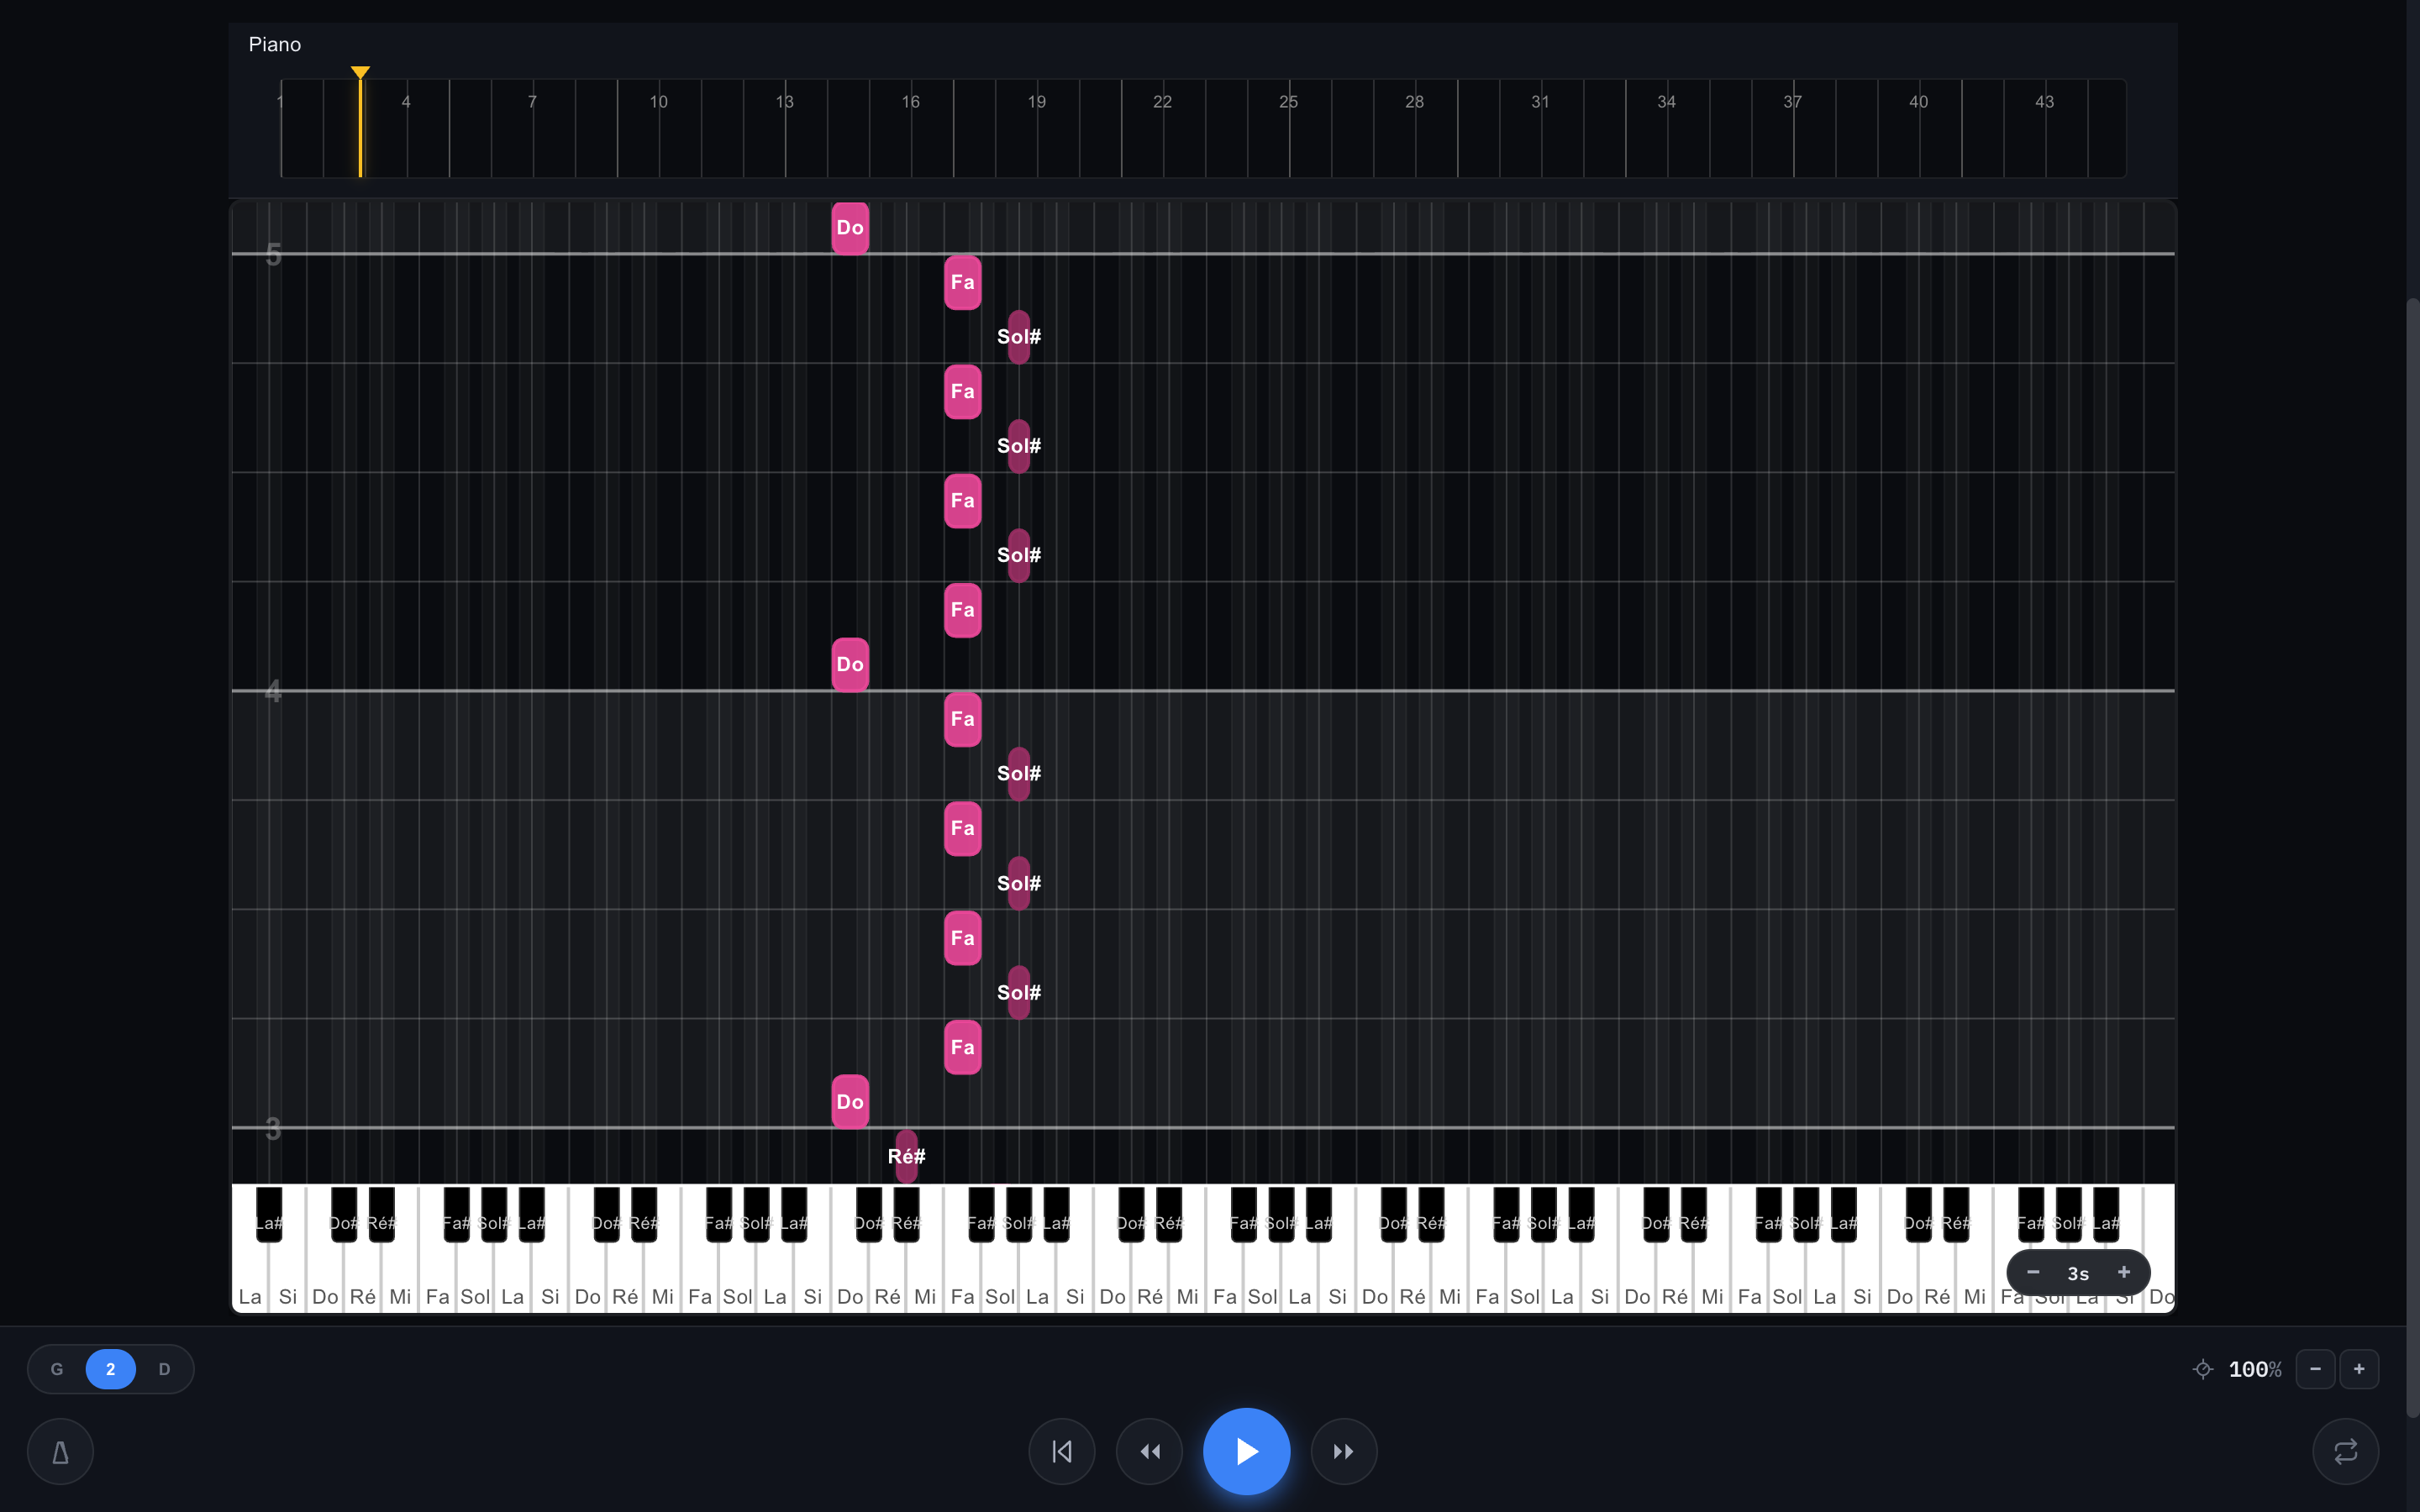
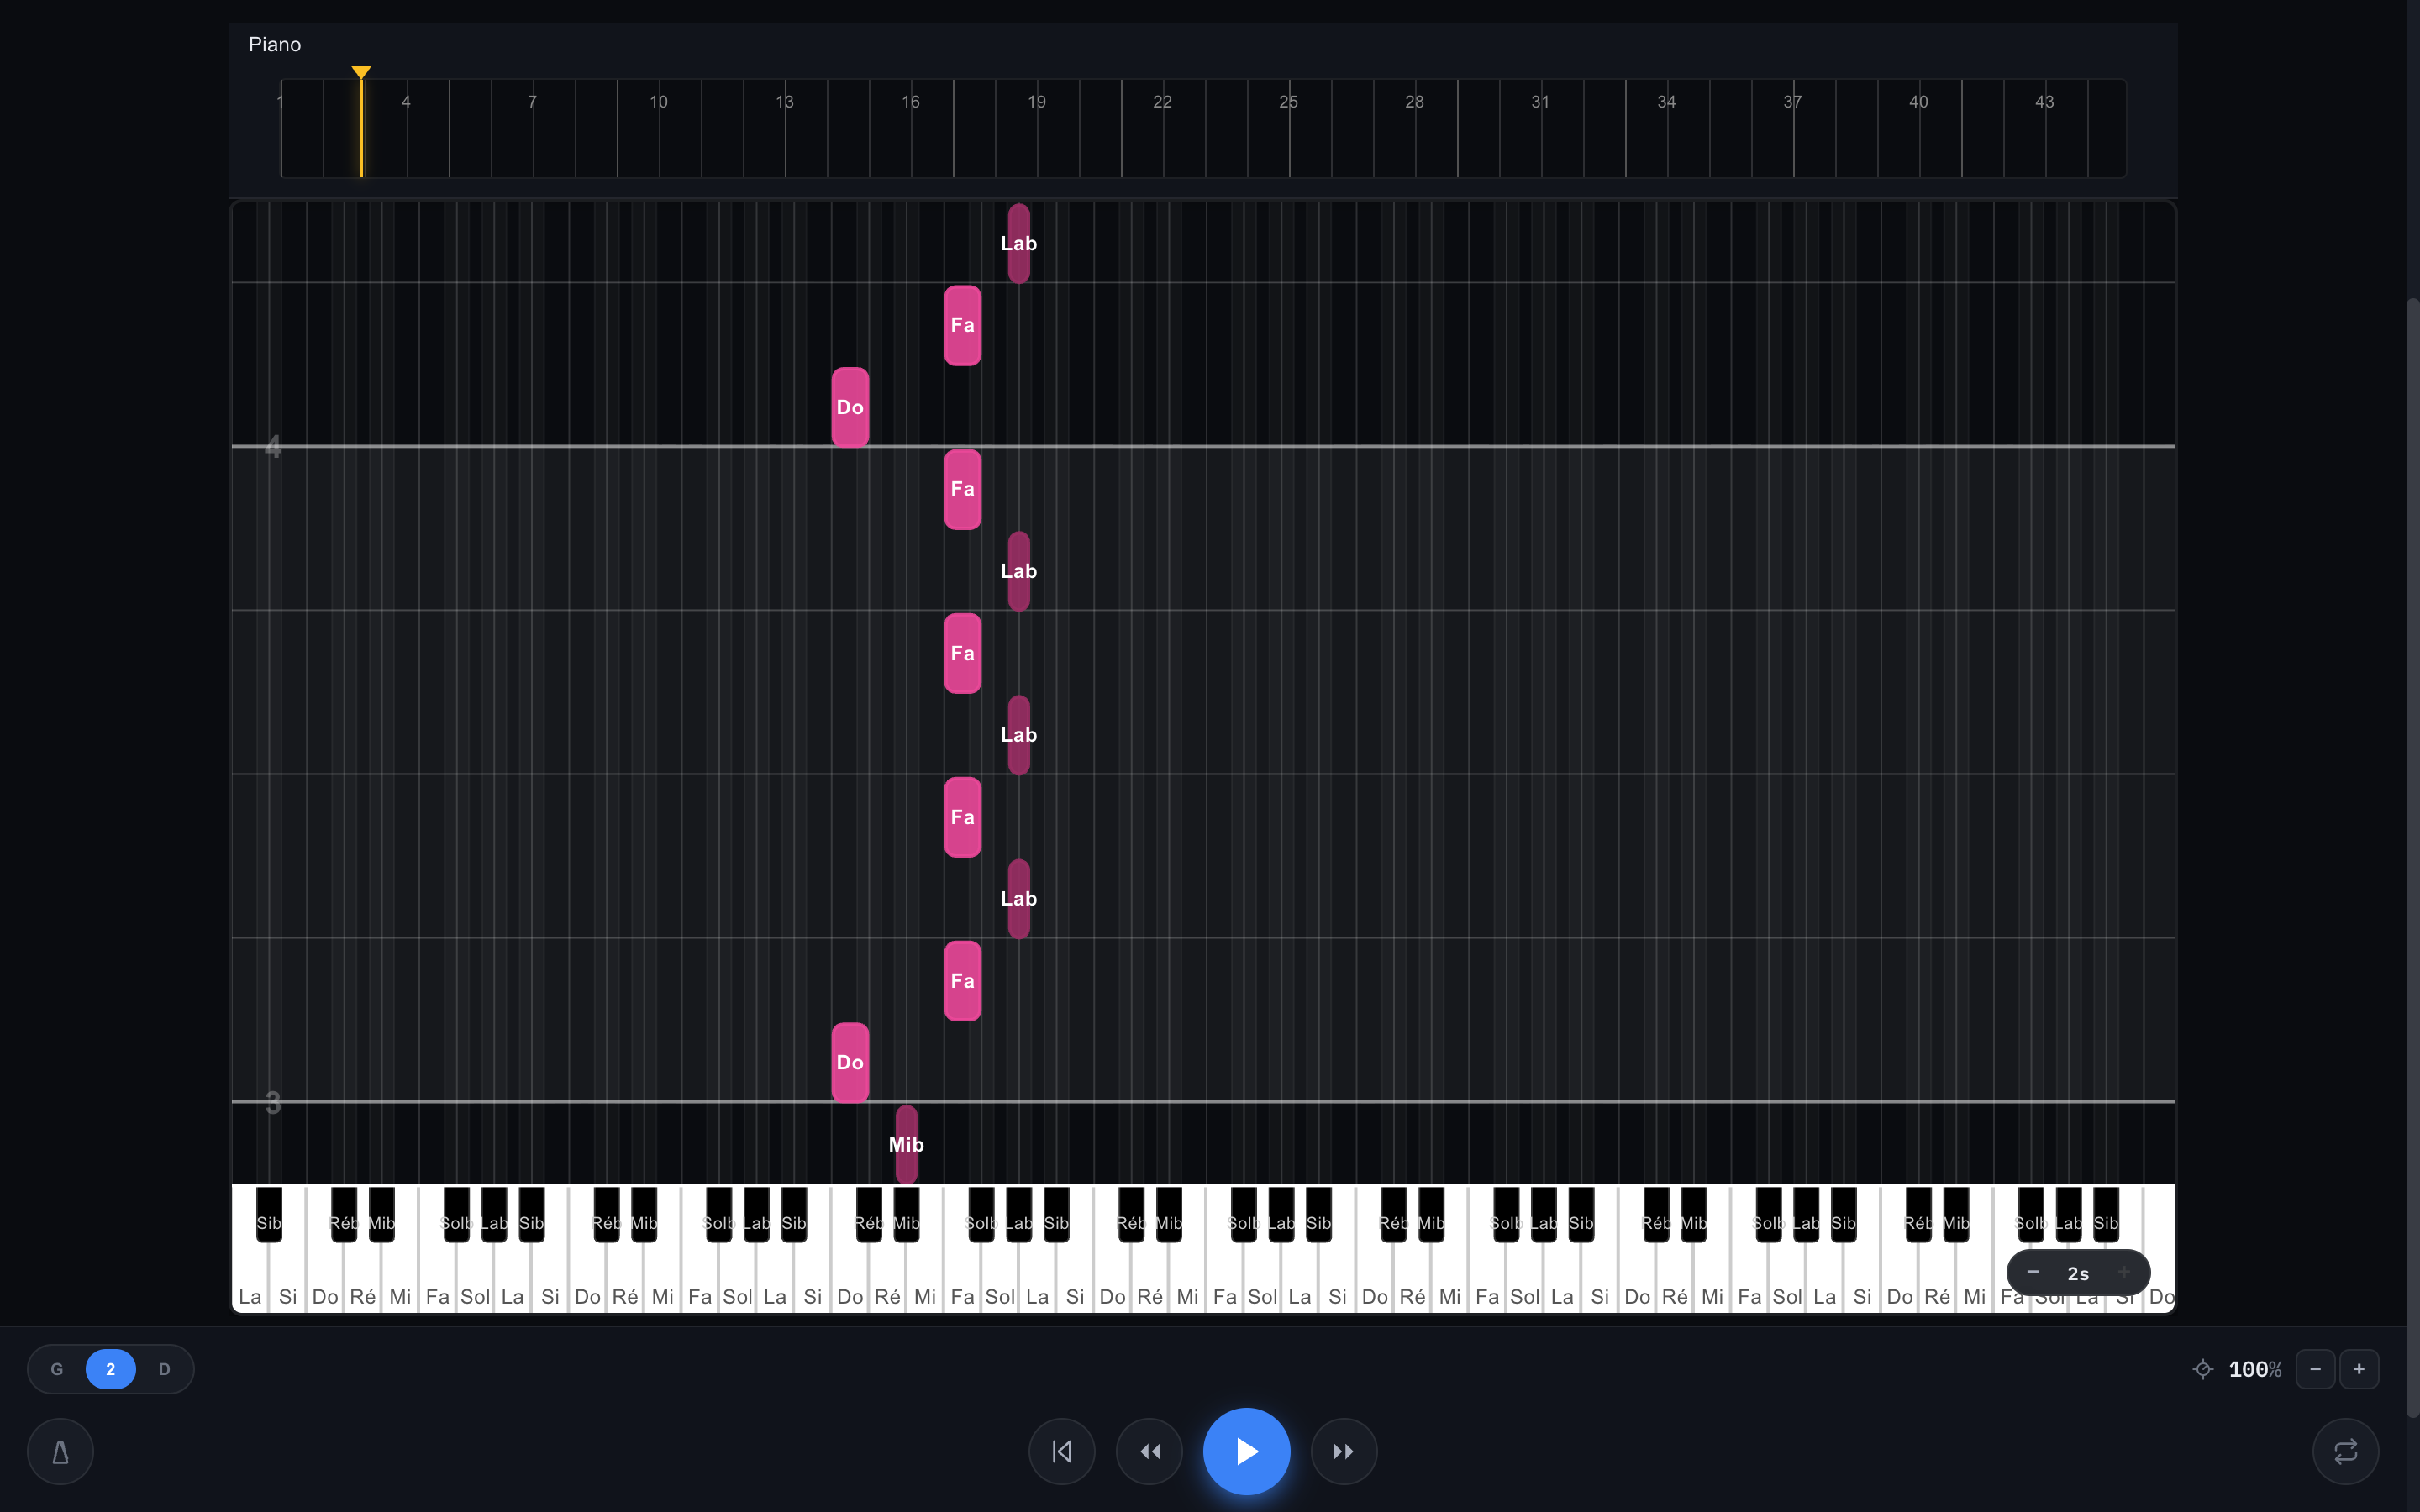
fix(liveplay+learning): key-aware enharmonic note labels
LivePlay falling-note + keyboard labels (web) and the Android Apprentissage
note chips were sharp-only — Do mineur displayed Ré#/Sol#/La# instead of
Mib/Lab/Sib. Labels now resolve through the key signature (flat majors
F/Bb/Eb/Ab/Db/Gb + relative minors), precomputed per song in a memoized
midi→name map on the web hot path. Sharp keys keep their sharps (Sol
Majeur → Fa#). Android LivePlayScreen was already key-aware. Landing
LivePlay screenshot retaken with the correct names.

diff --git a/android/app/src/main/kotlin/com/tobietheunknown/pianoteacher/ui/livelearning/LiveLearningScreen.kt b/android/app/src/main/kotlin/com/tobietheunknown/pianoteacher/ui/livelearning/LiveLearningScreen.kt
@@ -67,8 +67,8 @@ private val LL_KEY_WHITE = KeyWhite
 private val LL_KEY_WHITE_SHADOW = KeyWhiteShadow
 private val LL_KEY_BLACK = KeyBlack
 
-private val NOTE_NAMES = arrayOf("Do", "Do#", "Ré", "Ré#", "Mi", "Fa", "Fa#", "Sol", "Sol#", "La", "La#", "Si")
-private fun noteName(pitch: Int): String = NOTE_NAMES[((pitch % 12) + 12) % 12]
+private fun noteName(pitch: Int, keySignature: MusicKeySignature? = null): String =
+    com.tobietheunknown.pianoteacher.utils.midiToFrench(pitch, showOctave = false, keySignature = keySignature)
 
 /**
  * Apprentissage mobile — measure-by-measure cards with real data.
@@ -377,17 +377,17 @@ private fun MeasureCardCompact(
                 !showDetails && rightRole != null ->
                     HandRoleBadge(rightRole, hand = HandSide.RIGHT, keySignature = keySignature)
                 !showDetails ->
-                    NotesRow(measure.melodyNotes, color = CyanMelody)
+                    NotesRow(measure.melodyNotes, color = CyanMelody, keySignature = keySignature)
                 else -> Column(verticalArrangement = Arrangement.spacedBy(4.dp)) {
                     if (rightRole != null) {
                         HandRoleBadge(rightRole, hand = HandSide.RIGHT, keySignature = keySignature)
                     }
                     when {
                         measure.rightOstinato != null && measure.melodyNotes.isNotEmpty() ->
-                            MotifRows(measure.melodyNotes, measure.rightOstinato!!.motifPcs.size, CyanMelody)
+                            MotifRows(measure.melodyNotes, measure.rightOstinato!!.motifPcs.size, CyanMelody, keySignature = keySignature)
                         chordCycleLen(rightRole, measure.melodyNotes) != null ->
-                            MotifRows(measure.melodyNotes, chordCycleLen(rightRole, measure.melodyNotes)!!, CyanMelody)
-                        else -> NotesRow(measure.melodyNotes, color = CyanMelody)
+                            MotifRows(measure.melodyNotes, chordCycleLen(rightRole, measure.melodyNotes)!!, CyanMelody, keySignature = keySignature)
+                        else -> NotesRow(measure.melodyNotes, color = CyanMelody, keySignature = keySignature)
                     }
                 }
             }
@@ -402,7 +402,7 @@ private fun MeasureCardCompact(
                 !showDetails && leftRole != null ->
                     HandRoleBadge(leftRole, hand = HandSide.LEFT, keySignature = keySignature)
                 !showDetails && measure.chordNotes.isNotEmpty() ->
-                    LeftHandChips(measure.chordNotes)
+                    LeftHandChips(measure.chordNotes, keySignature = keySignature)
                 !showDetails ->
                     Box(modifier = Modifier.fillMaxWidth().height(18.dp))
                 else -> Column(verticalArrangement = Arrangement.spacedBy(4.dp)) {
@@ -411,10 +411,10 @@ private fun MeasureCardCompact(
                     }
                     when {
                         measure.leftOstinato != null && measure.chordNotes.isNotEmpty() ->
-                            MotifRows(measure.chordNotes, measure.leftOstinato!!.motifPcs.size, PinkChords)
+                            MotifRows(measure.chordNotes, measure.leftOstinato!!.motifPcs.size, PinkChords, keySignature = keySignature)
                         chordCycleLen(leftRole, measure.chordNotes) != null ->
-                            MotifRows(measure.chordNotes, chordCycleLen(leftRole, measure.chordNotes)!!, PinkChords)
-                        else -> NotesRow(measure.chordNotes, color = PinkChords)
+                            MotifRows(measure.chordNotes, chordCycleLen(leftRole, measure.chordNotes)!!, PinkChords, keySignature = keySignature)
+                        else -> NotesRow(measure.chordNotes, color = PinkChords, keySignature = keySignature)
                     }
                 }
             }
@@ -666,9 +666,9 @@ private fun PedalGlyph(tone: Color) {
  * note chips + a trailing "…" when truncated. Mirrors the web LH fallback.
  */
 @Composable
-private fun LeftHandChips(notes: List<NoteEvent>) {
-    val labels = remember(notes) {
-        notes.sortedBy { it.startTime }.map { noteName(it.pitch) }
+private fun LeftHandChips(notes: List<NoteEvent>, keySignature: MusicKeySignature? = null) {
+    val labels = remember(notes, keySignature) {
+        notes.sortedBy { it.startTime }.map { noteName(it.pitch, keySignature) }
     }
     val tone = PinkChords  // HandLeft
     Row(
@@ -707,9 +707,9 @@ private fun LeftHandChips(notes: List<NoteEvent>) {
  */
 @OptIn(ExperimentalLayoutApi::class)
 @Composable
-private fun MotifRows(notes: List<NoteEvent>, motifLen: Int, tone: Color) {
-    val labels = remember(notes) {
-        notes.sortedBy { it.startTime }.map { noteName(it.pitch) }
+private fun MotifRows(notes: List<NoteEvent>, motifLen: Int, tone: Color, keySignature: MusicKeySignature? = null) {
+    val labels = remember(notes, keySignature) {
+        notes.sortedBy { it.startTime }.map { noteName(it.pitch, keySignature) }
     }
     val rows = remember(labels, motifLen) {
         if (motifLen <= 0) listOf(labels) else labels.chunked(motifLen)
@@ -749,11 +749,11 @@ private fun NoteChip(label: String, tone: Color) {
 
 @OptIn(ExperimentalLayoutApi::class)
 @Composable
-private fun NotesRow(notes: List<NoteEvent>, color: Color) {
-    val labels = remember(notes) {
+private fun NotesRow(notes: List<NoteEvent>, color: Color, keySignature: MusicKeySignature? = null) {
+    val labels = remember(notes, keySignature) {
         notes
             .sortedBy { it.startTime }
-            .map { noteName(it.pitch) }
+            .map { noteName(it.pitch, keySignature) }
             .take(16)
     }
     if (labels.isEmpty()) {

diff --git a/web/src/components/LivePlayCanvas.jsx b/web/src/components/LivePlayCanvas.jsx
@@ -146,6 +146,27 @@ const LivePlayCanvas = memo(({
     return { repeatCount: rc, skipLabel: sl };
   }, [allNotes]);
 
+  // Flat keys (major + their relative minors) — mirrors song.js getEnharmonicNote logic
+  const noteLabelMap = useMemo(() => {
+    const FLAT_MAJORS = new Set(['F', 'Bb', 'Eb', 'Ab', 'Db', 'Gb', 'Cb']);
+    // Minor keys whose relative major is flat
+    const FLAT_MINORS = new Set(['D', 'G', 'C', 'F', 'Bb', 'Eb', 'Ab']);
+    const key = song?.key;
+    let useFlats = false;
+    if (key && key.note && key.mode) {
+      if (key.mode === 'major') useFlats = FLAT_MAJORS.has(key.note);
+      else if (key.mode === 'minor') useFlats = FLAT_MINORS.has(key.note);
+    }
+    const SHARP_FR = ['Do', 'Do#', 'Ré', 'Ré#', 'Mi', 'Fa', 'Fa#', 'Sol', 'Sol#', 'La', 'La#', 'Si'];
+    const FLAT_FR  = ['Do', 'Réb', 'Ré', 'Mib', 'Mi', 'Fa', 'Solb', 'Sol', 'Lab', 'La', 'Sib', 'Si'];
+    const names = useFlats ? FLAT_FR : SHARP_FR;
+    const map = new Map();
+    for (let midi = 21; midi <= 108; midi++) {
+      map.set(midi, names[midi % 12]);
+    }
+    return map;
+  }, [song?.key]);
+
   // Pre-compute getNoteX lookup table
   const noteXCache = useMemo(() => {
     const cache = new Map();
@@ -577,7 +598,7 @@ const LivePlayCanvas = memo(({
       // Note labels — skip entirely on mobile for performance
       if (height > (isMobile ? 20 : 15) * fontScale && !skipLabel.has(note.id)) {
         ctx.fillStyle = '#ffffff';
-        const baseName = getFrenchNoteName(note.pitch).replace(/[0-9-]/g, '');
+        const baseName = noteLabelMap.get(note.pitch) ?? getFrenchNoteName(note.pitch).replace(/[0-9-]/g, '');
         const rpt = repeatCount.get(note.id);
         const label = rpt ? `${baseName} x${rpt}` : baseName;
         ctx.font = `bold ${rpt ? noteSmallFontSize : noteFontSize}px Arial`;
@@ -618,7 +639,7 @@ const LivePlayCanvas = memo(({
           ctx.lineWidth = 1;
           ctx.strokeRect(x + 0.5, keyboardY + 0.5, WHITE_KEY_WIDTH - 2, KEYBOARD_HEIGHT - 1);
           ctx.fillStyle = isPressed ? '#ffffff' : '#555';
-          const label = getFrenchNoteName(i).replace(/[0-9-]/g, '');
+          const label = noteLabelMap.get(i) ?? getFrenchNoteName(i).replace(/[0-9-]/g, '');
           ctx.fillText(label, x + WHITE_KEY_WIDTH / 2, keyboardY + KEYBOARD_HEIGHT - 10 * fontScale);
         } else {
           if (isPressed && visualEffects) {
@@ -635,7 +656,7 @@ const LivePlayCanvas = memo(({
           ctx.stroke();
 
           ctx.fillStyle = isPressed ? '#ffffff' : '#555';
-          const label = getFrenchNoteName(i).replace(/[0-9-]/g, '');
+          const label = noteLabelMap.get(i) ?? getFrenchNoteName(i).replace(/[0-9-]/g, '');
           ctx.fillText(label, x + WHITE_KEY_WIDTH / 2, keyboardY + KEYBOARD_HEIGHT - 10 * fontScale);
         }
       }
@@ -672,7 +693,7 @@ const LivePlayCanvas = memo(({
 
           ctx.fillStyle = isPressed ? '#ffffff' : '#ccc';
           ctx.font = `${Math.round(10 * fontScale)}px Arial`;
-          const label = getFrenchNoteName(i).replace(/[0-9-]/g, '');
+          const label = noteLabelMap.get(i) ?? getFrenchNoteName(i).replace(/[0-9-]/g, '');
           ctx.fillText(label, x + BLACK_KEY_WIDTH / 2, keyboardY + blackKeyHeight - 8 * fontScale);
         }
       }
@@ -698,7 +719,7 @@ const LivePlayCanvas = memo(({
     ctx.lineTo(CANVAS_WIDTH, keyboardY);
     ctx.stroke();
     ctx.shadowBlur = 0;
-  }, [allNotes, beatsPerSecond, getNoteX, isBlackKey, getKeyColor, darkenColor, darkenedColors, drawRoundedRect, dynamicColors, buildHandMap, CANVAS_WIDTH, CANVAS_HEIGHT, KEYBOARD_HEIGHT, NOTE_FALL_HEIGHT, WHITE_KEY_WIDTH, fontScale, firstKey, lastKey, visualEffects, isMobile, repeatCount, skipLabel, lookAheadTime]);
+  }, [allNotes, beatsPerSecond, getNoteX, isBlackKey, getKeyColor, darkenColor, darkenedColors, drawRoundedRect, dynamicColors, buildHandMap, CANVAS_WIDTH, CANVAS_HEIGHT, KEYBOARD_HEIGHT, NOTE_FALL_HEIGHT, WHITE_KEY_WIDTH, fontScale, firstKey, lastKey, visualEffects, isMobile, repeatCount, skipLabel, lookAheadTime, noteLabelMap]);
 
   // Draw overlay layer (feedback, combo, particles)
   // dtFrames ≈ 1.0 at 60Hz, 0.5 at 120Hz — keeps animation speed identical